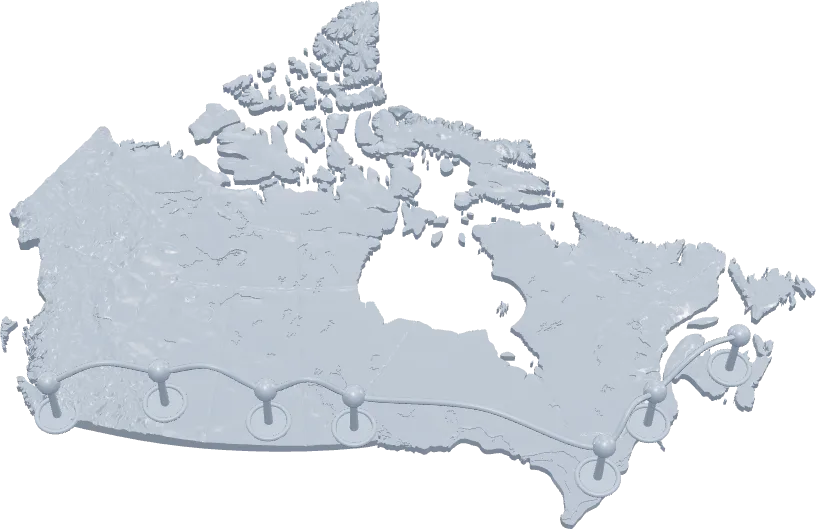
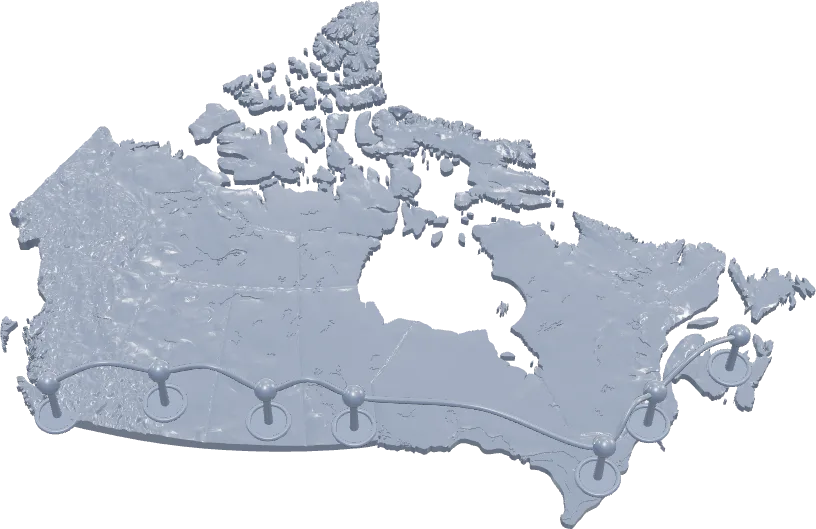
feat: deep navy ceramic, larger objects, crisp finale headline, Origin object persists
- light-chapter objects render as deep glossy navy ceramic with a hot rim light so they separate from the fog
- hero, truck, bot, handshake and ledger scaled up and re-seated clear of copy
- Contact headline and Send stay crisp above the mist; touch lifts the mist after ~1.5s
- Origin keeps the computer through the stats; phone stills regenerated

diff --git a/src/scripts/scene3d.js b/src/scripts/scene3d.js
@@ -172,10 +172,10 @@ export function createScene(canvas, labelLayer) {
       if (mesh.userData.pre) mesh.userData.pre.visible = mesh.visible;
       u.uProgress.value = prog;
       u.uGlow.value = state.glow;
-      u.uRim.value.set(mixv(0.42, 0.38), mixv(0.56, 0.48), mixv(0.74, 0.6));
-      mesh.material.clearcoat = mixv(0.7, 0.3); mesh.material.clearcoatRoughness = mixv(0.18, 0.3);
+      u.uRim.value.set(mixv(0.62, 0.38), mixv(0.78, 0.48), mixv(0.98, 0.6));
+      mesh.material.clearcoat = mixv(0.9, 0.3); mesh.material.clearcoatRoughness = mixv(0.12, 0.3);
       mesh.material.opacity = state.opacity;
-      const base = [mixv(0.2, 0.78), mixv(0.27, 0.84), mixv(0.38, 0.92)];   // light chapters: deep ink-blue glossy ceramic against the pale fog; dark chapters: pale pearl
+      const base = [mixv(0.085, 0.78), mixv(0.125, 0.84), mixv(0.215, 0.92)];   // light chapters: deep ink-blue glossy ceramic against the pale fog; dark chapters: pale pearl
       mesh.material.color.setRGB(base[0] * smooth.tint[0], base[1] * smooth.tint[1], base[2] * smooth.tint[2]); // a quiet per-chapter hue on the clay
     }
     renderer.render(scene, camera);

diff --git a/src/scripts/motion/mist.js b/src/scripts/motion/mist.js
@@ -77,7 +77,7 @@ export function initMist(veil, section, { onShown } = {}) {
     // the arrival clock starts when the section has fully scrolled in; wiping enough, or waiting, lifts the rest
     if (S.scroll > 0.97) S.arrived += dt;
     const wipeClear = smoothstep(1600, 4200, S.wiped);                      // cursor travel (px) that clears it for good
-    const idleClear = smoothstep(fine ? 7 : 1.2, fine ? 11 : 3.2, S.arrived);   // no wiping: it lifts on its own
+    const idleClear = smoothstep(fine ? 6 : 0.6, fine ? 9.5 : 1.6, S.arrived);   // no wiping: it lifts on its own
     S.settle = Math.max(S.settle, wipeClear, idleClear);
     const prog = Math.min(1, S.scroll * ARRIVE + (1 - ARRIVE) * S.settle);   // what the shader sees
     const shown = prog;
